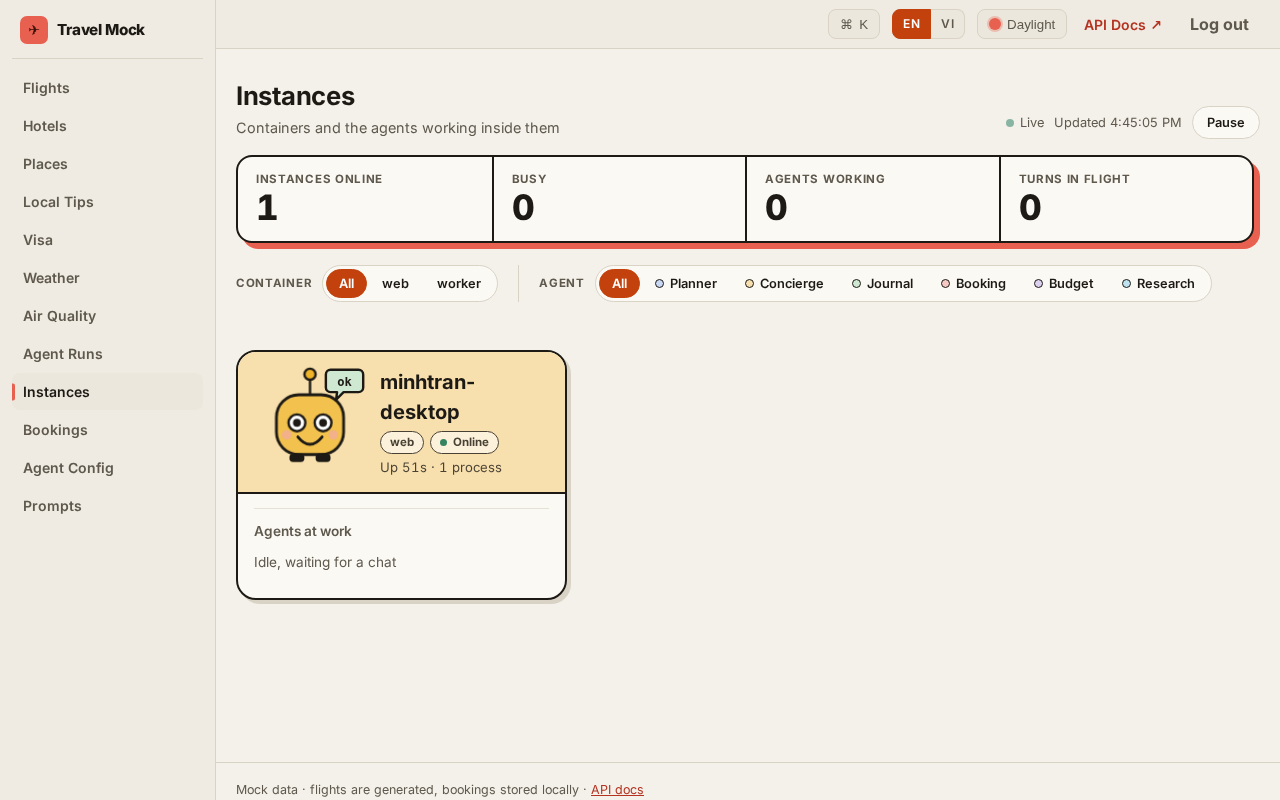
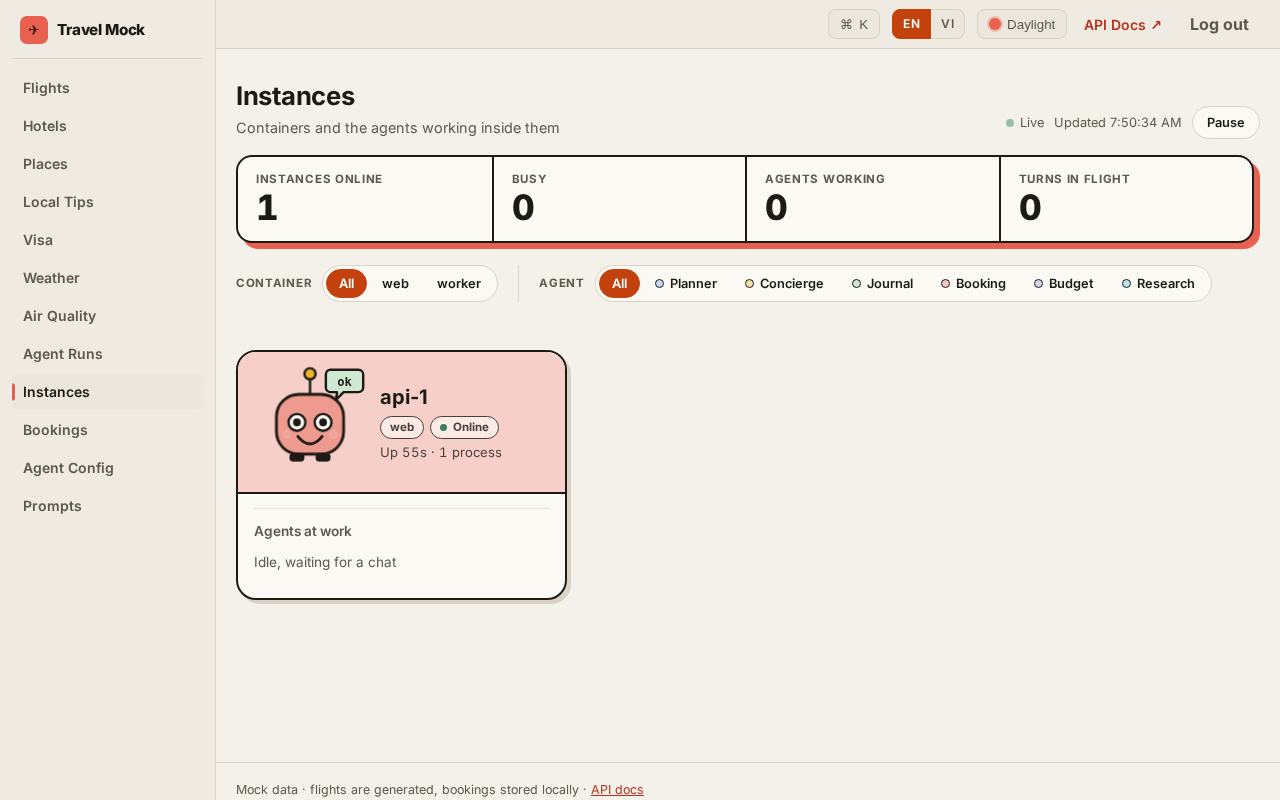
docs(specs): reword remaining 'bot' wording in live-bots PLAN; add UAT screenshots for #344

Changed region(s): [[0.1875, 0.4375, 0.4688, 0.625], [0.875, 0.125, 0.9062, 0.1562]]

diff --git a/specs/live-bots-dashboard/PLAN.md b/specs/live-bots-dashboard/PLAN.md
@@ -51,7 +51,7 @@ chat/stream/research turn --callback--> LiveRegistry (in memory, per process)
 
 ### Drift (what the epic and issues claim vs the code)
 
-1. **Outdated: the worker, Redis and gunicorn landed in PR #302.** Original finding, kept for history: **No Arq worker, no Redis, no gunicorn on this base.** #312 says "start the heartbeat from the Arq worker startup" and the epic talks of a `worker` bot and gunicorn processes. On `github/main` the image runs a single `uvicorn app.main:app` (`apps/api/Dockerfile` CMD); `grep -rniE "arq|redis|gunicorn"` over Dockerfile, compose files, requirements, `app/` finds nothing. Research runs in-process: `app/research/launcher.py` does `asyncio.create_task` in the web process. The multi-process, worker and Redis topology exists only on the unmerged `github/feat/prod-deploy-sim` line. Decision (ASSUMPTION): implement the web heartbeat now; make the heartbeat starter a reusable function `start_heartbeat(role)` so a worker entrypoint calls it once that topology lands; support `BOT_ROLE=worker` and test it, but do not invent a worker process. On this base, research agents therefore show inside the `web` bot that launched them. The (instance, pid) key and the merge-per-instance aggregation already handle multi-process containers.
+1. **Outdated: the worker, Redis and gunicorn landed in PR #302.** Original finding, kept for history: **No Arq worker, no Redis, no gunicorn on this base.** #312 says "start the heartbeat from the Arq worker startup" and the epic talks of a `worker` bot and gunicorn processes. On `github/main` the image runs a single `uvicorn app.main:app` (`apps/api/Dockerfile` CMD); `grep -rniE "arq|redis|gunicorn"` over Dockerfile, compose files, requirements, `app/` finds nothing. Research runs in-process: `app/research/launcher.py` does `asyncio.create_task` in the web process. The multi-process, worker and Redis topology exists only on the unmerged `github/feat/prod-deploy-sim` line. Decision (ASSUMPTION): implement the web heartbeat now; make the heartbeat starter a reusable function `start_heartbeat(role)` so a worker entrypoint calls it once that topology lands; support `BOT_ROLE=worker` and test it, but do not invent a worker process. On this base, research agents therefore show inside the `web` instance that launched them. The (instance, pid) key and the merge-per-instance aggregation already handle multi-process containers.
 2. **Parallel specialists are not nodes named after the specialist.** In multi-intent turns they run as `synthesis_worker` nodes (via `Send`) and the specialist identity comes from `metadata["specialist"]`, not `langgraph_node`. Single-intent turns run the node named `planner`/`concierge`/... directly. The mapping must read `specialist` first, then fall back to the node name.
 3. **Phase mapping, concrete.** classify = `pii_guardrail|load_context|summarize|supervisor`; specialist = the named specialist nodes, `research`, `synthesis_worker`, `synthesize`, `plan`; tools = any `on_tool_start` (phase back to specialist at `on_tool_end`); reflection = `reflection`. Supervisor is itself an agent in the classify phase. Sub-agents are ReAct subgraphs, so one specialist alternates specialist <-> tools several times in a turn.
 4. **Namespace dedupe.** `TurnMetricsHandler` dedupes chain starts by `checkpoint_ns` because subgraphs re-emit them; the registry handler must do the same (key by `run_id`, ignore starts whose node is already open for that ns) or one agent shows up twice.
@@ -94,11 +94,11 @@ cd apps/api
 ../../.venv/bin/ruff check app/agents app/routers/agent.py app/research
 ```
 
-### #314 Bots data endpoint
+### #314 Instances data endpoint
 
-- [ ] Failing tests first: two processes of one instance merge into one bot; `online` <= 10 s, `stale` <= 60 s, older dropped; role mapping; empty list; JSON 401 and HTML redirect without login; `Cache-Control: no-store`; no full ids or message text.
+- [ ] Failing tests first: two processes of one instance merge into one instance; `online` <= 10 s, `stale` <= 60 s, older dropped; role mapping; empty list; JSON 401 and HTML redirect without login; `Cache-Control: no-store`; no full ids or message text.
 - [ ] `app/services/bots_service.py` and `GET /dashboard/bots.json` (`include_in_schema=False`) returning `{generated_at, bots:[{id, name, role, status, processes, uptime_s, turns:[{conv, kind, agents:[{agent, phase, tool, elapsed_s}]}], agent_count}], counts}`.
-- [ ] `counts` = bots online, busy, agents working, turns in flight, matching the hero strip.
+- [ ] `counts` = instances online, busy, agents working, turns in flight, matching the hero strip.
 
 Verify:
 ```bash
@@ -111,12 +111,12 @@ cd apps/api
 
 Already open and independent; confirm it is merged or rebase onto it before #315. Verify: `pytest tests/api/agent_config/test_dashboard_default_theme.py`.
 
-### #315 Bots page
+### #315 Instances page
 
-- [ ] Failing tests first: logged-in render 200 with hero strip, empty state ("No bots reporting") server-rendered, filter chips, polling hook for `/dashboard/bots.json` at 3000 ms; no login = redirect; `?lang=vi` strings.
+- [ ] Failing tests first: logged-in render 200 with hero strip, empty state ("No instances reporting") server-rendered, filter chips, polling hook for `/dashboard/bots.json` at 3000 ms; no login = redirect; `?lang=vi` strings.
 - [ ] Route `GET /dashboard/bots`, `app/templates/bots.html` extending `base.html`, nav entry beside Agent runs. Read `apps/api/DESIGN.md` first; use tokens only (paper palette by default, correct in dark and Nightfall).
-- [ ] One card per bot: large mascot (online, busy, stale/greyed), name, role badge, uptime, process count; "agents at work" area with a mini mascot per agent (planner pin, concierge bell, journal pencil, booking ticket, budget coin, research magnifier, supervisor), phase stepper, tool name, elapsed; agents of one turn grouped. SVG shapes ported from the demo file `/tmp/claude-1000/-home-minhtran-Documents-minh-tran-projects-travel-pi/566d19f4-ef76-4f32-b449-ad6c8c48196b/scratchpad/live-bots.html`; its numbers and one-card-per-run layout are NOT the model.
-- [ ] JS: 3 s poll, pause when `document.hidden`, pause button, keyed DOM updates, client elapsed ticker, role and agent-kind chips, quiet error state keeping the last good cards, `textContent` only. Offline bots grey out then disappear (server drops after 60 s).
+- [ ] One card per instance: large mascot (online, busy, stale/greyed), name, role badge, uptime, process count; "agents at work" area with a mini mascot per agent (planner pin, concierge bell, journal pencil, booking ticket, budget coin, research magnifier, supervisor), phase stepper, tool name, elapsed; agents of one turn grouped. SVG shapes ported from the demo file `/tmp/claude-1000/-home-minhtran-Documents-minh-tran-projects-travel-pi/566d19f4-ef76-4f32-b449-ad6c8c48196b/scratchpad/live-bots.html`; its numbers and one-card-per-run layout are NOT the model.
+- [ ] JS: 3 s poll, pause when `document.hidden`, pause button, keyed DOM updates, client elapsed ticker, role and agent-kind chips, quiet error state keeping the last good cards, `textContent` only. Offline instances grey out then disappear (server drops after 60 s).
 - [ ] A11y: `role="img"` + `aria-label`, state as text not only faces, `:focus-visible`, `prefers-reduced-motion`; one column and no horizontal scroll at 390 px.
 
 Verify:
@@ -130,7 +130,7 @@ Then run the app on SQLite, seed, and look at `/dashboard/bots` at desktop and 3
 ### #316 Demo seed script and UAT
 
 - [ ] Failing tests first: refuses under `ENVIRONMENT=production` (non-zero exit, nothing written); second run leaves the same row count; `--clear` removes only demo rows.
-- [ ] `apps/api/scripts/seed_bots.py`: bots `api-1`, `api-2` (two processes each), `worker`; snapshots covering every agent kind and phase, tagged demo; `--animate` moves agents through phases and occasionally takes a bot offline; `--clear`.
+- [ ] `apps/api/scripts/seed_bots.py`: instances `api-1`, `api-2` (two processes each), `worker`; snapshots covering every agent kind and phase, tagged demo; `--animate` moves agents through phases and occasionally takes a bot offline; `--clear`.
 - [ ] UAT: SQLite app with `DASHBOARD_BASIC_USER/PASSWORD` and a >= 32-byte `DASHBOARD_SECRET_KEY`; screenshots desktop and 390 px (light) plus one dark, one short GIF; publish under `pr-<N>/` on `pr-assets` and embed in the PR body under `## Test recording`.
 
 Verify:
@@ -163,7 +163,7 @@ cd apps/api
 3. **Extra pooled connection.** Each beat borrows a connection for about a millisecond and returns it; never held between beats and never taken from a request session. With the default pool it cannot starve requests; revisit once the pool-budget work from `feat/prod-deploy-sim` lands (count the heartbeat in the per-process budget).
 4. **Migration.** New table only, no change to existing tables; downgrade drops it. Postgres is Alembic-only, so a missing migration would break the heartbeat on Postgres while SQLite tests stay green: the heartbeat task must tolerate a missing table (log once, retry) so a deploy ordering slip cannot take the API down.
 5. **Event-loop blocking.** All heartbeat DB calls go through `asyncio.to_thread` (sync SQLAlchemy). A slow DB must delay only the heartbeat, never a chat turn; shutdown cancels the task with a short timeout.
-6. **Drift on this base** (see Drift 1): no worker process exists yet, so the `worker` bot is demo/seed-only until the production topology merges. Real research agents appear under the web bot.
-7. **Stale registry entries.** A turn that never reaches `finally` (hard kill) disappears with the process, since its heartbeat stops and the bot goes stale then drops; also expire registry turns older than a ceiling (for example 15 min) to guard leaks.
+6. **Drift on this base** (see Drift 1): no worker process exists yet, so the `worker` instance is demo/seed-only until the production topology merges. Real research agents appear under the web bot.
+7. **Stale registry entries.** A turn that never reaches `finally` (hard kill) disappears with the process, since its heartbeat stops and the instance goes stale then drops; also expire registry turns older than a ceiling (for example 15 min) to guard leaks.
 8. **Privacy / XSS.** Short labels only (`conv` = a short hash prefix, never the full id, user id, email or text); Jinja autoescape plus `textContent`; tests assert raw ids and message text never appear in JSON or HTML.
 9. **Style drift.** The demo is a different look; port shapes and behaviour only and check against `DESIGN.md` tokens in all three themes.
